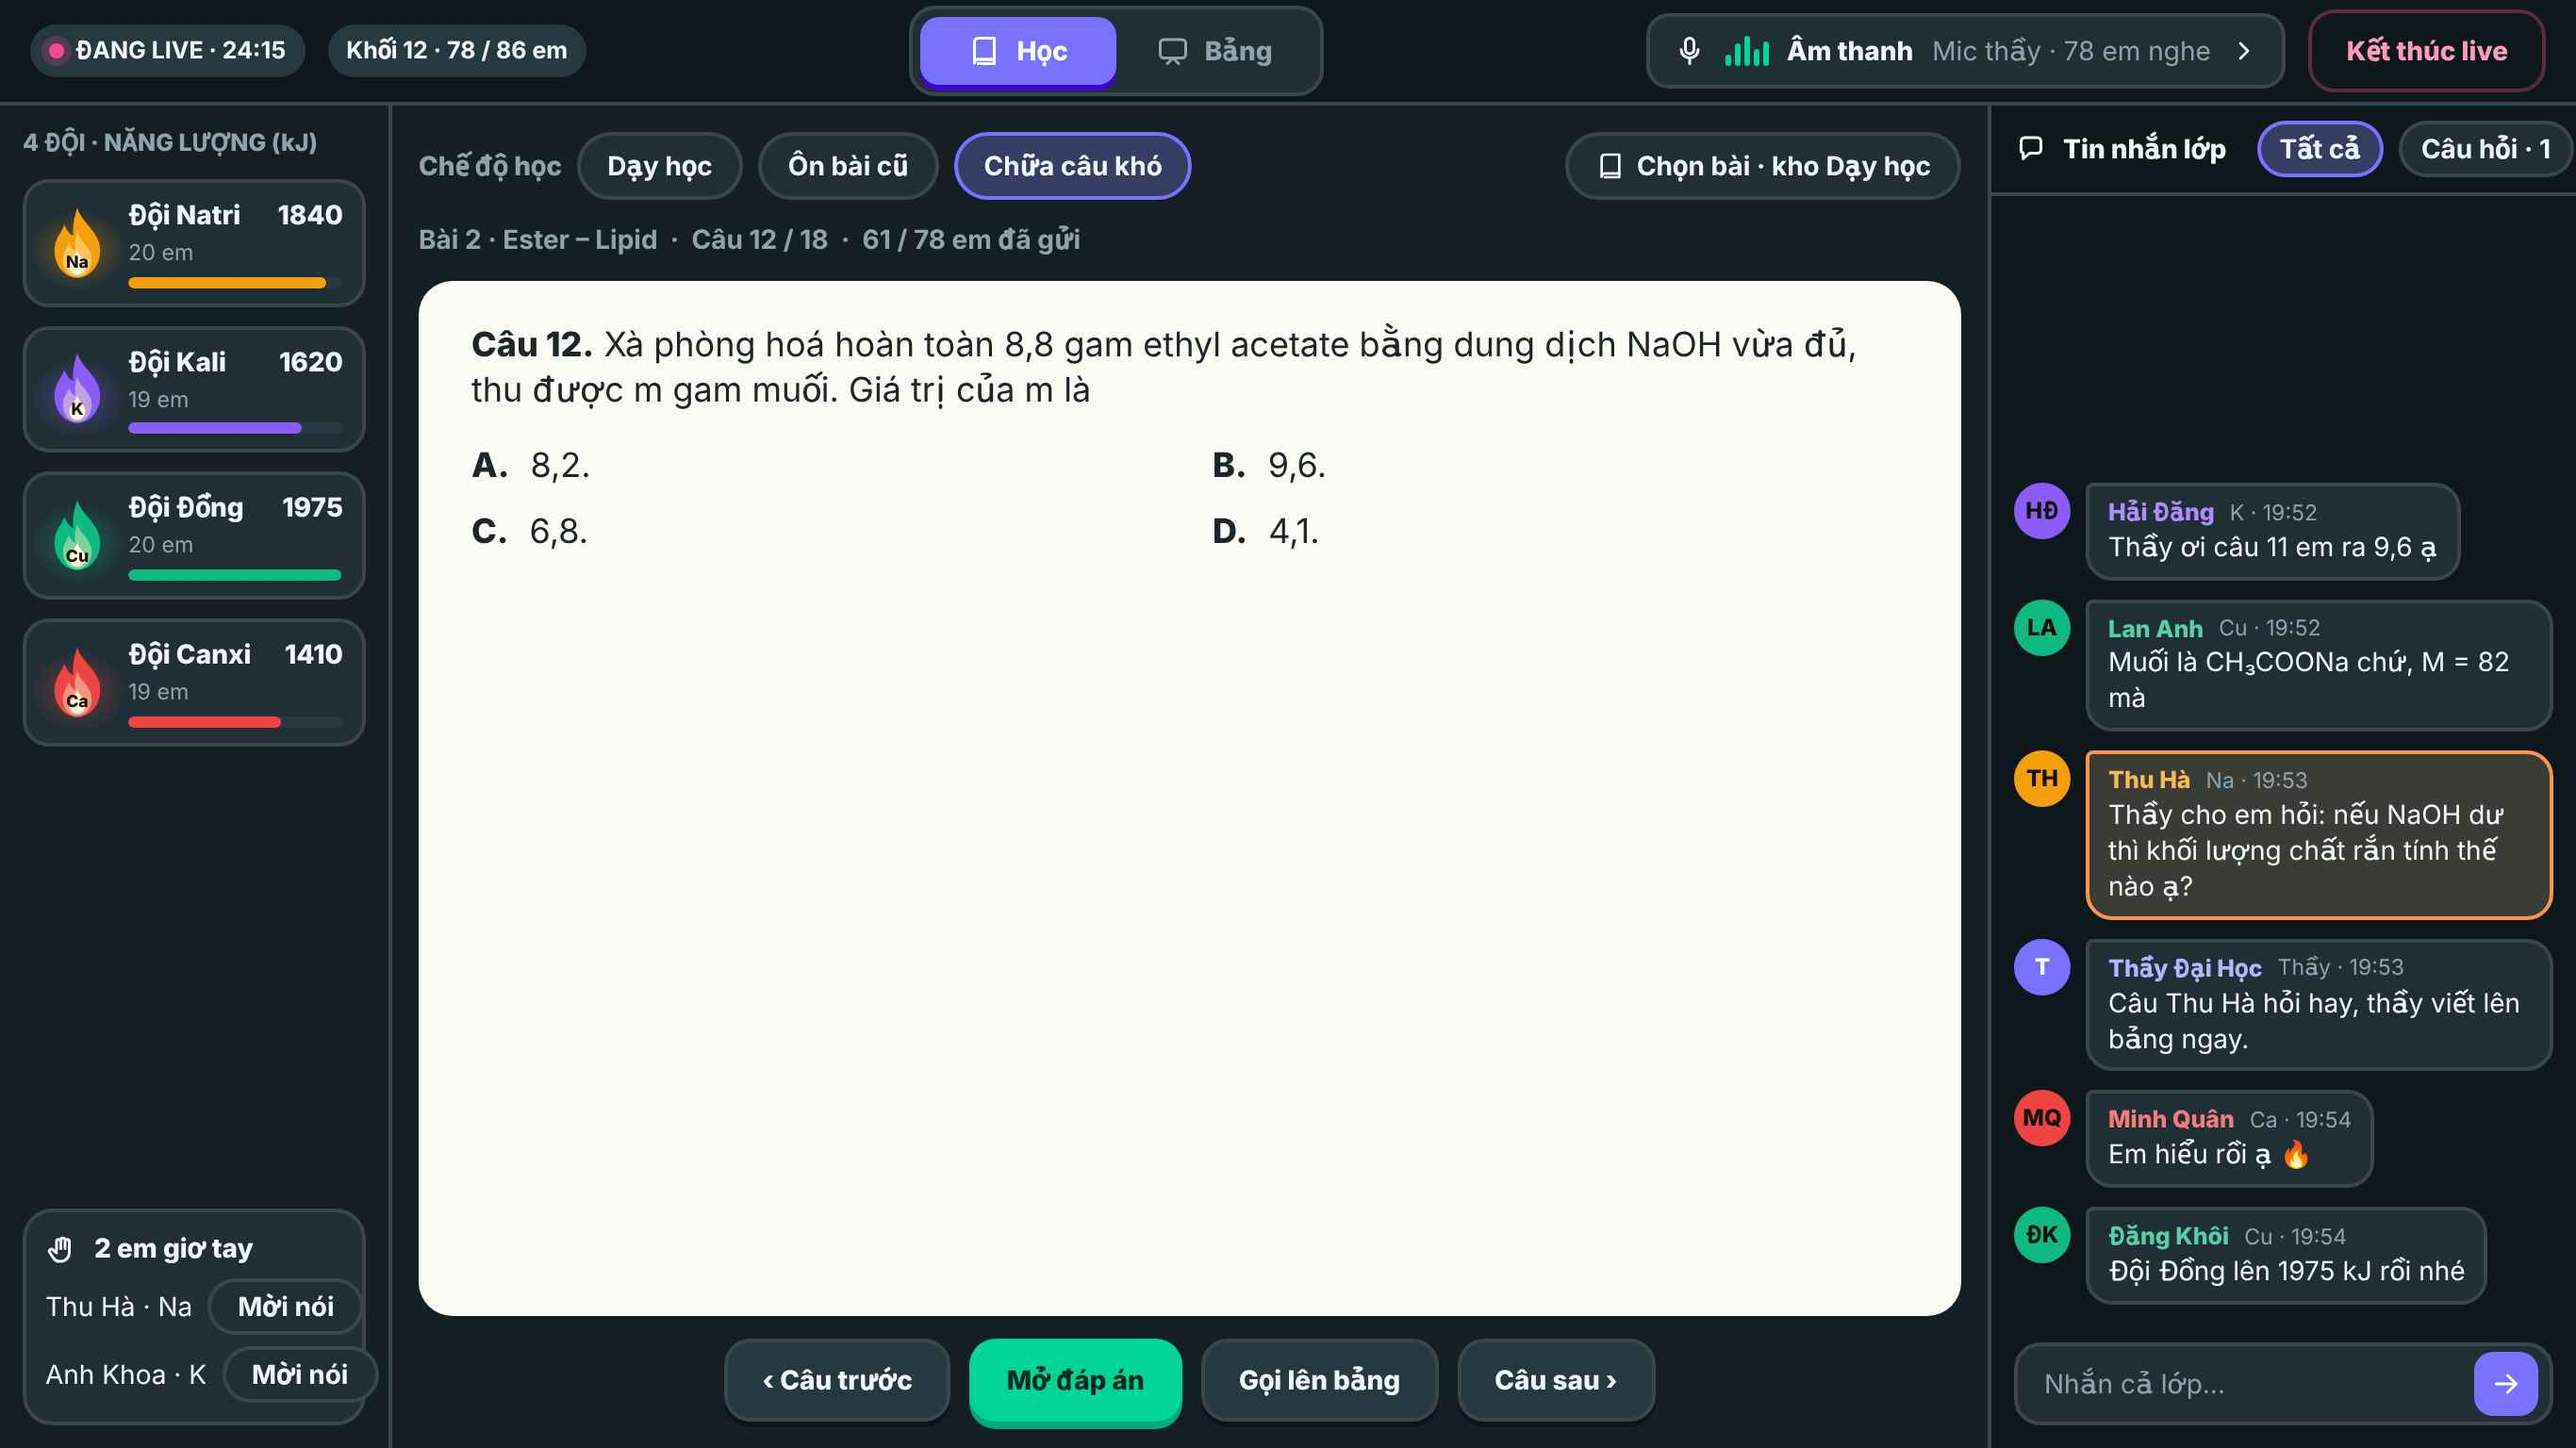
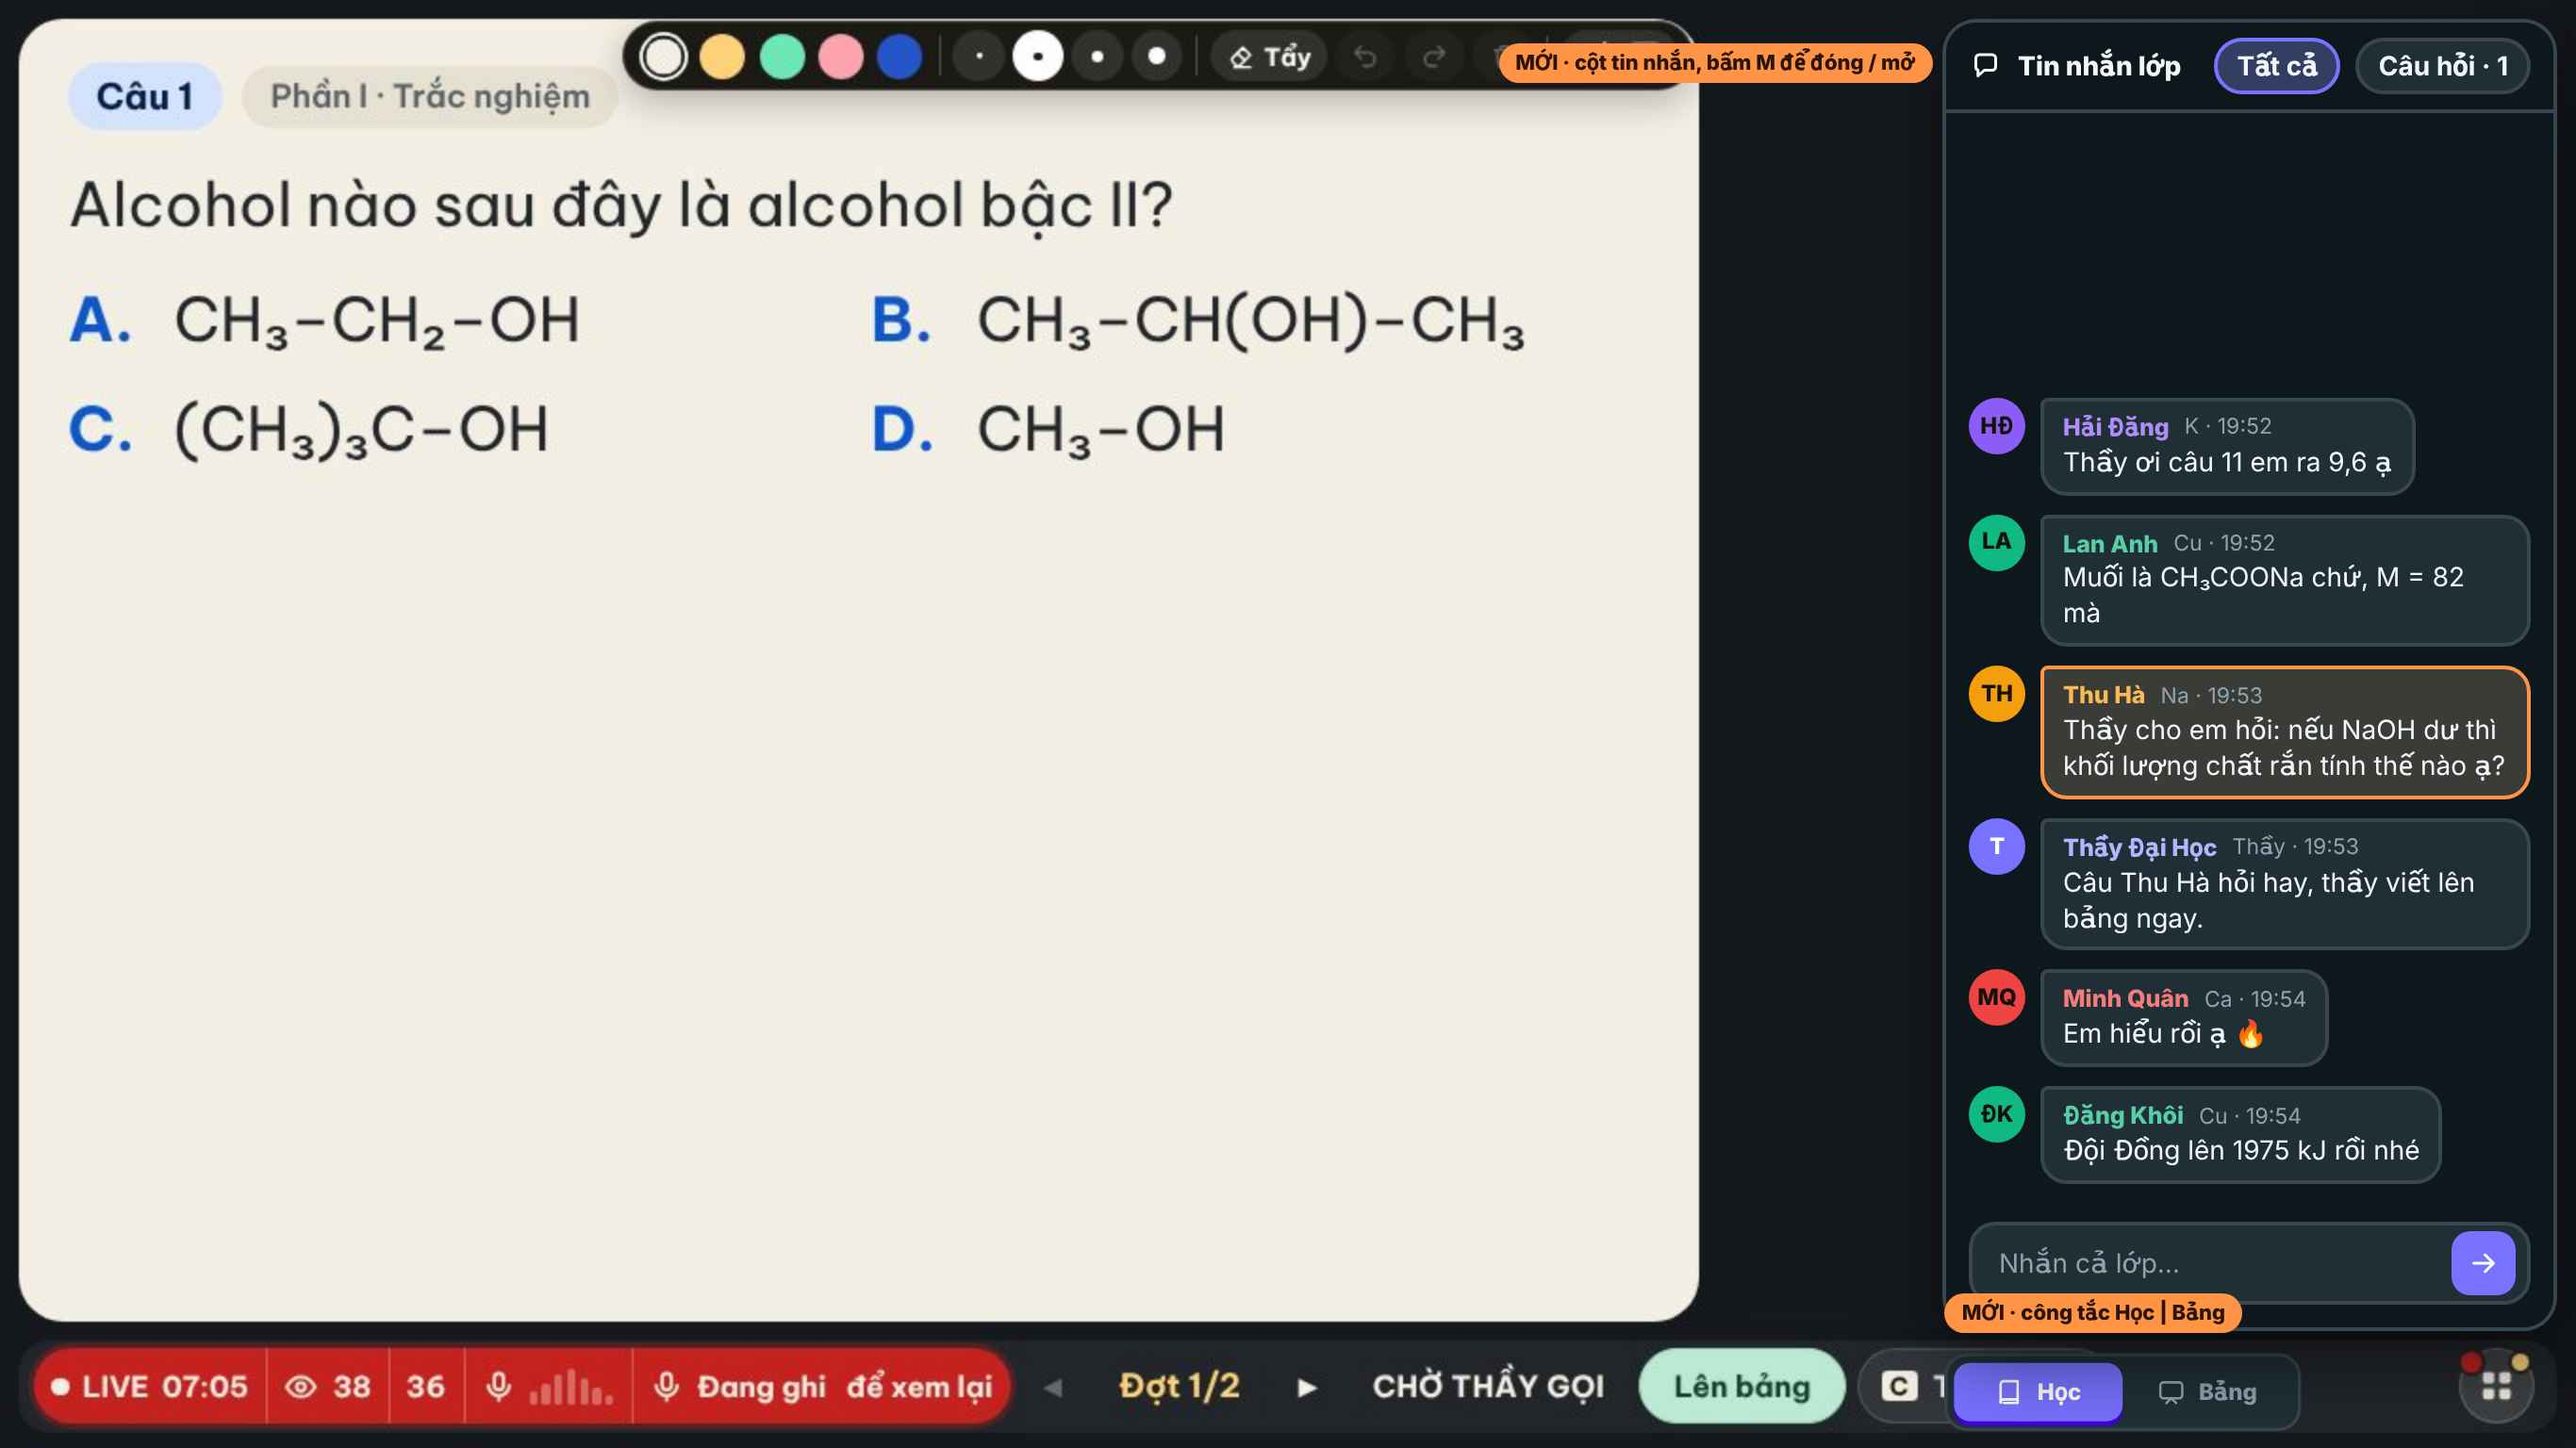
Bản vẽ Live mới: chế độ Học bê nguyên màn live hiện tại (thầy 12/11), chỉ thêm công tắc Học | Bảng và chat
Claude-Session: https://claude.ai/code/session_01Ghxeuvnx4C3QF1jc4p46Ce

diff --git a/docs/ban-ve-live-moi-1211/mo-phong.html b/docs/ban-ve-live-moi-1211/mo-phong.html
@@ -154,6 +154,12 @@ body.sang .nut.chinh { box-shadow: 0 4px 0 var(--dung-day); } body.sang .nut.hs 
 .can i { width: 44px; height: 44px; border-radius: 50%; background: rgba(241,247,251,.34); transform: translate(14px, -10px); }
 .tang { position: absolute; right: 150px; bottom: 30px; width: 76px; height: 76px; border-radius: 50%; background: color-mix(in srgb, var(--d0) 30%, transparent); border: 2px solid var(--d0); display: grid; place-items: center; font-weight: 800; font-size: 12.5px; }
 .tin-tran { position: absolute; right: 12px; top: 52px; gap: 4px; align-items: flex-end; font-size: 11.5px; font-weight: 700; } .tin-tran span { padding: 3px 9px; border-radius: 99px; background: rgba(19,31,36,.8); }
+.nguyen { position: relative; width: 100%; height: 100%; background: #14181d center / 100% 100% no-repeat; }
+.chat-noi { position: absolute; right: 10px; top: 10px; bottom: 62px; width: 326px; border-radius: 18px; overflow: hidden; border: 2px solid var(--vien); box-shadow: 0 16px 40px rgba(0,0,0,.5); }
+.chat-noi .lv-chat { height: 100%; border-left: 0; }
+.moi-ghi { position: absolute; padding: 3px 9px; border-radius: 99px; background: var(--chu-y); color: #2a1300; font-weight: 800; font-size: 11px; white-space: nowrap; }
+.o-chat-em { position: absolute; right: 0; top: 47%; width: 26px; height: 30px; display: grid; place-items: center; color: var(--chu-2); background: rgba(32,47,54,.9); border-radius: 10px 0 0 10px; }
+.o-chat-em em { position: absolute; top: -6px; left: -6px; min-width: 15px; height: 15px; border-radius: 8px; background: var(--sai); color: #fff; font-size: 10px; font-style: normal; font-weight: 800; display: grid; place-items: center; }
 /* trang chủ em (dọc) */
 .hs-nha { height: 100%; padding: 18px 16px; gap: 14px; }
 .live-nut { border-radius: 20px; padding: 14px; gap: 12px; background: var(--mat); border: 2px solid var(--vien); }
@@ -263,7 +269,10 @@ const MAN = {
     <div class="lv-chat cot" style="padding:14px;gap:12px"><b>Bốn đội đang tranh lửa</b>${DOI.map((d, i) => `<div class="doi-the hang doi${i}">${lua(i, 34)}<div class="gian"><div class="hang" style="justify-content:space-between"><b>${d[0]}</b><b>${SO[i]} em</b></div><small class="mo">${[412, 388, 455, 301][i]} kJ gom được</small></div></div>`).join('')}
       <span class="mo">Em vào sau tự được xếp vào đội ít người nhất. 8 em chưa vào: bấm để xem tên.</span><span class="gian"></span>
       <button class="nut chinh" style="height:60px;font-size:18px">${ic('live', 22)}Bắt đầu live</button><span class="mo" style="text-align:center">Bấm là trò chơi dừng, 78 máy em chuyển vào live cùng lúc.</span></div></div></div>`,
-  'g-live': () => `<div class="lv">${dauLv(che)}<div class="lv-than">${cotDoi}${che === 'hoc' ? sanHoc : sanBang}${cotChat}</div></div>`,
+  'g-live': () => che === 'hoc' ? `<div class="nguyen" style="background-image:url(../ban-ve-live-1011/that-6-dang-noi-khay-dong-1366.jpg)">
+      <div class="doi-che" style="position:absolute;left:75.5%;bottom:1.2%;transform:scale(.86);transform-origin:left bottom"><span class="chon">${ic('sach', 18)}Học</span><span>${ic('bang', 18)}Bảng</span></div>
+      <div class="chat-noi cot">${cotChat}</div><span class="moi-ghi" style="left:75.5%;bottom:8%">MỚI · công tắc Học | Bảng</span><span class="moi-ghi" style="right:25%;top:3%">MỚI · cột tin nhắn, bấm M để đóng / mở</span></div>`
+    : `<div class="lv">${dauLv(che)}<div class="lv-than">${cotDoi}${sanBang}${cotChat}</div></div>`,
   'h-nut': () => `<div class="hs-nha cot"><b style="font-size:20px">Chào Minh Anh</b>
     <small class="mo">1 · Thầy đang mở live cho khối của em</small><div class="live-nut sang-len hang"><span class="bieu">${ic('live', 24)}</span><div class="gian"><b style="font-size:16px">Thầy đang live · Khối 12</b><div class="mo">78 bạn đã vào phòng</div></div><button class="nut hs">Tham gia</button></div>
     <small class="mo">2 · Có lịch hẹn, chưa tới giờ</small><div class="live-nut hang"><span class="bieu" style="background:color-mix(in srgb, var(--hs) 20%, transparent);color:var(--hs)">${ic('lich', 24)}</span><div class="gian"><b style="font-size:16px">Live 19:30 tối nay</b><div class="mo">Chữa đề Ester – Lipid · còn 2 giờ 15 phút</div></div></div>
@@ -271,11 +280,11 @@ const MAN = {
   'h-xoay': () => `<div class="phu" style="position:fixed"><div class="hop cot"><span style="color:var(--hs)">${ic('xoay', 64)}</span><h2 style="font-size:20px">Xoay ngang máy để vào live</h2><span class="mo">Live chỉ chạy ở màn ngang, toàn màn hình. Nếu máy đang khoá xoay, mở khoá xoay rồi xoay lại.</span><button class="nut hs" style="width:100%;margin-top:6px">Em đã xoay ngang</button></div></div>`,
   'h-cho': () => dauTruong(false),
   'h-chao': () => `<div class="chao cot"><div class="hang" style="justify-content:center;gap:10px"><span class="vien"><span class="cham"></span>THẦY BẮT ĐẦU LIVE</span><b style="font-size:16px">Em thuộc Đội Natri</b></div><div class="chao-4">${DOI.map((d, i) => `<div class="chao-cot cot doi${i}${i === 0 ? ' minh' : ''}">${lua(i, 54)}<h3>${d[0]}</h3><small class="mo">${SO[i]} em · ${KJ[i]} kJ</small><div class="ds-ten doi${i}">${dsTen(i, 14, i === 0 ? 0 : -1)}</div></div>`).join('')}</div></div>`,
-  'h-hoc': () => `<div class="em">${cotEm(false)}${emHoc}</div>${thanhAn(2)}</div>`,
+  'h-hoc': () => `<div class="nguyen" style="background-image:url(../ban-ve-live-1011/that-4-em-844-vua-vao-giay-uu-tien.jpg)"><span class="o-chat-em">${ic('chat', 18)}<em>2</em></span><div class="bong-noi doi2" style="right:30px;top:36%"><b style="color:color-mix(in srgb, var(--d2) 70%, #fff)">Lan Anh · Cu</b> Câu này chọn B đúng không ạ</div><span class="moi-ghi" style="right:34px;top:52%">MỚI · bong bóng chat trong thanh ẩn sẵn có</span></div>`,
   'h-bang': () => `<div class="em">${cotEm(true)}${emBang}<div class="bong-noi doi2"><b style="color:color-mix(in srgb, var(--d2) 70%, #fff)">Lan Anh · Cu</b> Muối là CH₃COONa chứ, M = 82 mà</div></div>${thanhAn(1)}</div>`,
   'h-khay': () => `<div class="em">${cotEm(true)}${emBang}<div class="khay cot">${[['chat', 'Nhắn cả lớp', '2 tin mới', 1], ['tay', 'Giơ tay', ''], ['mic', 'Mic của em', 'Tắt'], ['loa', 'Tiếng thầy', 'Bật'], ['lua', 'Bốn đội', ''], ['toan', 'Toàn màn hình', 'Bật']].map((d) => `<div class="d hang${d[3] ? ' sang' : ''}">${ic(d[0], 18)}${d[1]}<small>${d[2]}</small></div>`).join('')}<span class="gian"></span><div class="d hang" style="color:#ff9bba">${ic('roi', 18)}Rời live</div></div></div>${thanhAn(0, true)}</div>`,
   'h-chat': () => `<div class="em">${cotEm(true)}${emBang}<div class="pop cot"><div class="dau hang">${ic('chat', 18)}Nhắn cả lớp<span class="gian"></span><span style="width:44px;height:44px;display:grid;place-items:center">${ic('x', 18)}</span></div><div class="chat-ds cot">${CHAT.slice(1, 5).join('')}</div><div class="nhanh hang"><span>Em hiểu rồi ạ</span><span>Thầy giảng lại ạ</span><span>🔥</span><span>👏</span></div><div class="o-chat hang"><span class="gian">Nhắn thầy và cả lớp…</span><span class="gui">${ic('gui', 18)}</span></div></div></div>${thanhAn(0, true)}</div>`,
-  'h-roi': () => `<div class="em">${cotEm(false)}${emHoc}</div>${thanhAn(2)}</div><div class="phu" style="position:fixed"><div class="hop cot"><h2 style="font-size:20px;color:var(--chu-y)">Em vừa rời màn live</h2><span class="mo">Thầy đã thấy em rời màn 1 lần (12 giây). Quay lại ngay để không mất kJ của Đội Natri.</span><button class="nut hs" style="width:100%;margin-top:6px">Quay lại live</button></div></div>`,
+  'h-roi': () => `<div class="nguyen" style="background-image:url(../ban-ve-live-1011/that-4-em-844-vua-vao-giay-uu-tien.jpg)"></div><div class="phu" style="position:fixed"><div class="hop cot"><h2 style="font-size:20px;color:var(--chu-y)">Em vừa rời màn live</h2><span class="mo">Thầy đã thấy em rời màn 1 lần (12 giây). Quay lại ngay để không mất kJ của Đội Natri.</span><button class="nut hs" style="width:100%;margin-top:6px">Quay lại live</button></div></div>`,
 }
 document.body.innerHTML = (MAN[man] || MAN['g-nut'])()
 </script>

diff --git a/docs/dac-ta-live-moi-1211.md b/docs/dac-ta-live-moi-1211.md
@@ -12,13 +12,14 @@ Bản vẽ: `docs/ban-ve-live-moi-1211/` (28 ảnh Chromium, `mo-phong.html` + `
 **App thầy (1366 / 1920)**
 - Nút Live (ảnh 01, 02): ba thẻ «Mở live ngay · Hẹn lịch live · Xem lại live»; dưới là ba ô khối có số em; một nút chính «Mở phòng chờ Khối 12».
 - Phòng chờ (03): trái là đấu trường nhìn từ trên; phải là 4 đội + số em + nút lớn «Bắt đầu live».
-- Đang live (04, 05): thanh đầu = trạng thái · sĩ số · công tắc **Học | Bảng** ở giữa · một viên «Âm thanh» (gom mic, loa, kiểu tiếng, thẻ «Đang nói» vào một khay) · «Kết thúc live». Trái: 4 đội + kJ + hàng giơ tay. Giữa: sân (đề hoặc bảng). Phải: cột «Tin nhắn lớp».
+- **Chế độ Học (04) = BÊ NGUYÊN màn live hiện tại** (thầy 12/11: «Chế độ học bê nguyên live hiện tại sang nhé»): tờ chiếu, giấy đề, bảng đen, bút, thanh đáy LIVE, khay nút «thêm», phím tắt — không vẽ lại, không đổi vị trí. Chỉ THÊM hai thứ: công tắc **Học | Bảng** trên thanh đáy và cột «Tin nhắn lớp» đóng / mở (phím M) nổi trên vùng bảng trống.
+- Chế độ Bảng (05): thanh đầu = trạng thái · sĩ số · công tắc Học | Bảng · viên «Âm thanh» · «Kết thúc live». Trái: 4 đội + kJ + hàng giơ tay. Giữa: bảng. Phải: cột «Tin nhắn lớp».
 
 **Máy em (ngang 844 / 667 / 1180, ép ngang + toàn màn hình)**
 - Trang chủ (06): thẻ Live ba trạng thái — đang mở (sáng, có nút «Tham gia») · có lịch · không có.
 - Phòng chờ (08): đấu trường kín màn, 4 ngọn lửa ở 4 góc, cần điều khiển trái, «Tăng tốc» phải.
 - Màn vào live (09): 4 ngọn lửa, tên từng em xếp dưới lửa đội; đội mình viền sáng. Hiện 3 giây rồi vào bài; mở lại từ thanh ẩn («Bốn đội»).
-- Chế độ Học (10): cột trái = 4 lửa + kJ + danh sách đội mình; giữa = đề | phương án.
+- **Chế độ Học (10) = BÊ NGUYÊN màn live máy em hiện tại** (hai khung giấy | bảng, thanh ẩn mép phải, cảnh báo, giơ tay, mic). Chỉ THÊM bong bóng chat vào thanh ẩn sẵn có. Bốn ngọn lửa + danh sách tên xem ở màn vào live và mục «Bốn đội» trong khay.
 - Chế độ Bảng (11): cột trái thu thành dải 44 px (4 lửa nhỏ), bảng chiếm hết.
 - **Thanh ẩn mép phải 44 px:** chỉ còn mũi tên, bong bóng chat (số tin mới), dấu loa. Mọi chức năng khác nằm trong khay (12): nhắn, giơ tay, mic, tiếng thầy, bốn đội, toàn màn hình, rời live.
 - Chat (13): cửa nổi bên phải, có 4 câu bấm nhanh; đóng lại thì tin mới hiện thành bong bóng nhỏ 4 giây cạnh thanh ẩn rồi tự mờ (11).
